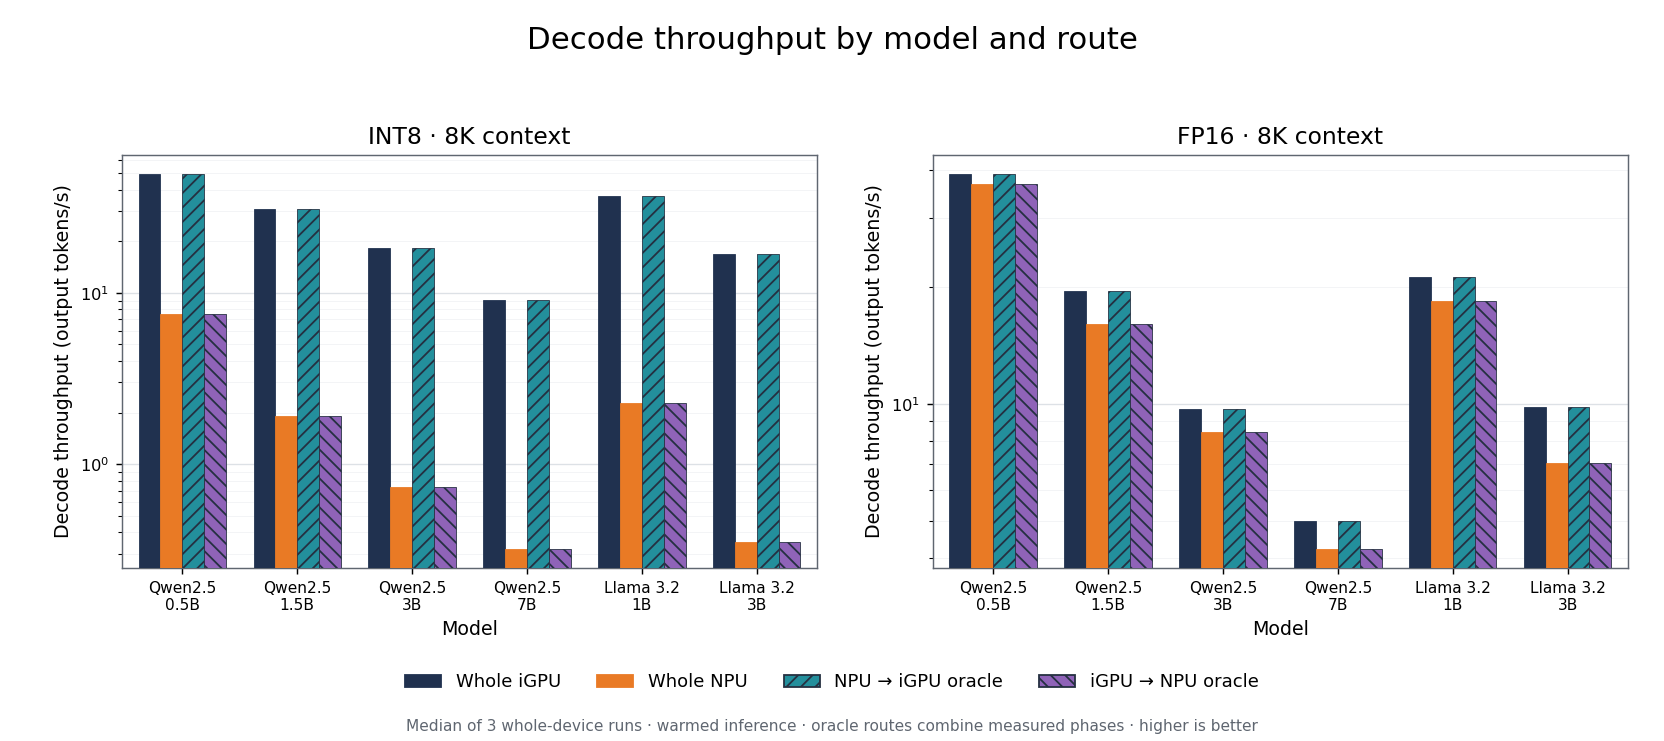
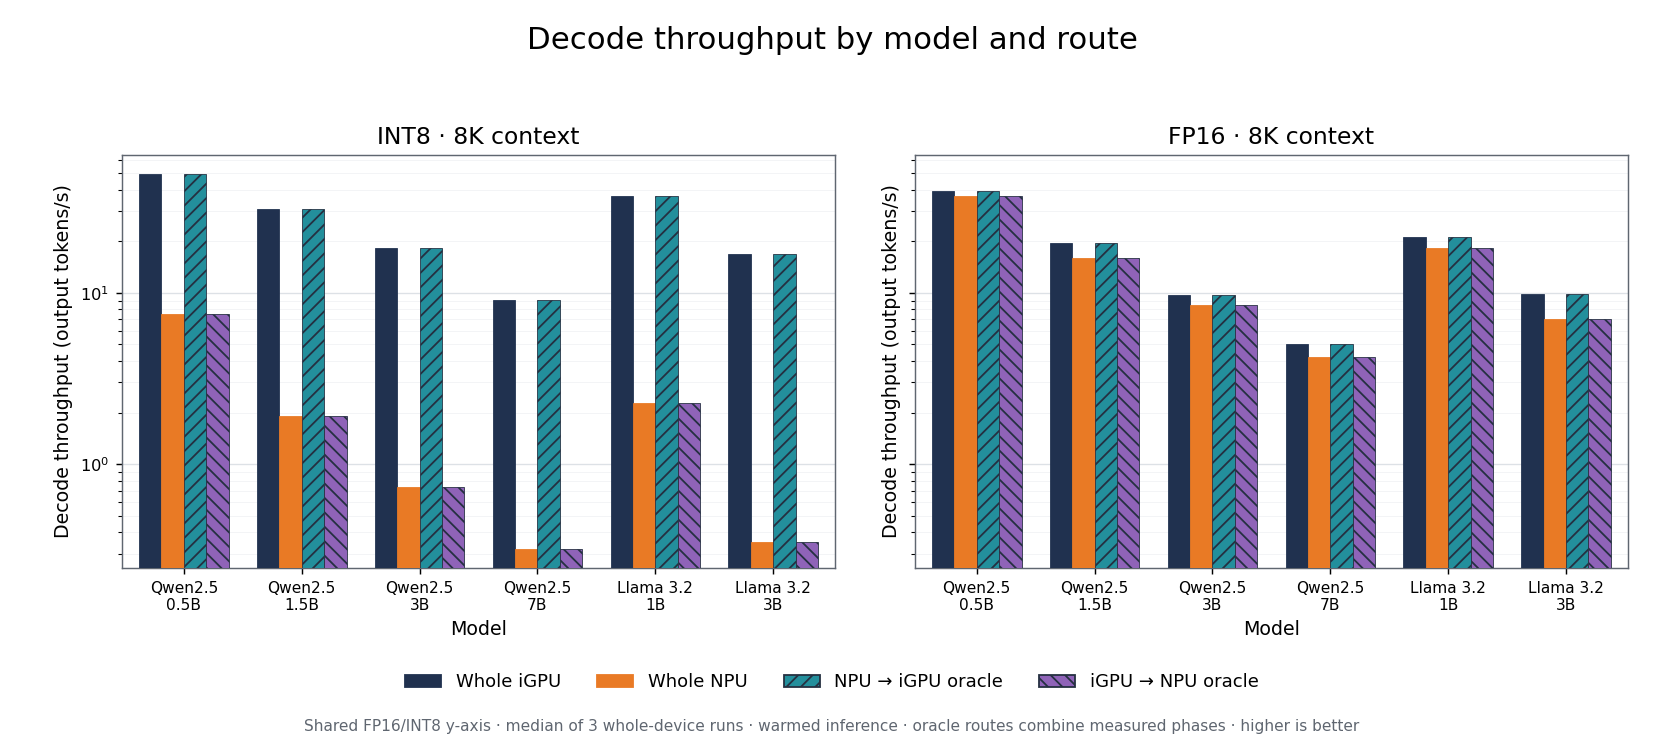
Show matched-scale INT8 and FP16 window sweeps

diff --git a/demos/npuw-pyramid-jit.html b/demos/npuw-pyramid-jit.html
@@ -717,16 +717,28 @@ For the refreshed Qwen2.5-3B INT8 8K NPU cell, compilation was 111.14&nbsp;s,
 while the plotted post-compile TTFT is 18.627&nbsp;s and post-compile end-to-end
 time is 38.941&nbsp;s.</div>
 
+<h2 id="oracle-window-sweep">1K–8K window sweep · matched FP16/INT8 scale</h2>
+<p>Every model is now shown as an INT8/FP16 pair with the <b>same y-axis limits</b>
+inside that pair, so the precision difference is directly visible. Each line covers
+the measured 1K, 2K, 4K and 8K context buckets; solid routes are whole-device
+measurements and dashed routes are the zero-boundary-overhead phase oracles.</p>
+<div class="sweep-shots">
+<figure><img src="nuc16-stage-sweep-figs/oracle_ttft_ms.png?v=20260825b" alt="Post-compile TTFT across 1K 2K 4K and 8K with matched INT8 and FP16 axes"><figcaption>Post-compile TTFT sweep; lower is better. Each model row shares one FP16/INT8 scale.</figcaption></figure>
+<figure><img src="nuc16-stage-sweep-figs/oracle_decode_tokens_per_s.png?v=20260825b" alt="Decode throughput across 1K 2K 4K and 8K with matched INT8 and FP16 axes"><figcaption>Decode throughput sweep; higher is better. Each model row shares one FP16/INT8 scale.</figcaption></figure>
+<figure><img src="nuc16-stage-sweep-figs/oracle_end_to_end_ms.png?v=20260825b" alt="End-to-end time across 1K 2K 4K and 8K with matched INT8 and FP16 axes"><figcaption>Post-compile end-to-end inference sweep; lower is better. Each model row shares one FP16/INT8 scale.</figcaption></figure>
+<figure><img src="nuc16-stage-sweep-figs/oracle_energy_net_psys_j.png?v=20260825b" alt="Inference energy across 1K 2K 4K and 8K with matched INT8 and FP16 axes"><figcaption>Idle-subtracted PSys inference-energy sweep; lower is better. Each model row shares one FP16/INT8 scale.</figcaption></figure>
+</div>
+
 <h2 id="oracle-8k-digest">8K cross-model latency, throughput and energy digest</h2>
 <p>These grouped bars compare all six models directly at the largest tested window.
 Whole-device routes are solid; overhead-free split oracles are hatched. Post-compile
 TTFT follows the prefill device, decode throughput follows the decode device, and total
 energy adds the independently measured phase components.</p>
 <div class="sweep-shots">
-<figure><img src="nuc16-stage-sweep-figs/oracle_ttft_8k_grouped.png?v=20260825" alt="Eight-thousand-token post-compile prefill time to first token by model route and precision"><figcaption>Post-compile prefill TTFT at 8K; load, compile and warmup excluded.</figcaption></figure>
-<figure><img src="nuc16-stage-sweep-figs/oracle_decode_throughput_8k_grouped.png?v=20260825" alt="Eight-thousand-token decode throughput by model route and precision"><figcaption>Decode output throughput at 8K; higher is better.</figcaption></figure>
-<figure><img src="nuc16-stage-sweep-figs/oracle_end_to_end_8k_grouped.png?v=20260825" alt="Eight-thousand-token end-to-end inference time by model route and precision"><figcaption>End-to-end inference time after phase composition; lower is better.</figcaption></figure>
-<figure><img src="nuc16-stage-sweep-figs/oracle_energy_8k_grouped.png?v=20260825" alt="Eight-thousand-token idle-subtracted whole-system inference energy by model route and precision"><figcaption>Idle-subtracted PSys inference energy at 8K; compile and warmup energy excluded.</figcaption></figure>
+<figure><img src="nuc16-stage-sweep-figs/oracle_ttft_8k_grouped.png?v=20260825b" alt="Eight-thousand-token post-compile prefill time to first token by model route and precision"><figcaption>Post-compile prefill TTFT at 8K; load, compile and warmup excluded.</figcaption></figure>
+<figure><img src="nuc16-stage-sweep-figs/oracle_decode_throughput_8k_grouped.png?v=20260825b" alt="Eight-thousand-token decode throughput by model route and precision"><figcaption>Decode output throughput at 8K; higher is better.</figcaption></figure>
+<figure><img src="nuc16-stage-sweep-figs/oracle_end_to_end_8k_grouped.png?v=20260825b" alt="Eight-thousand-token end-to-end inference time by model route and precision"><figcaption>End-to-end inference time after phase composition; lower is better.</figcaption></figure>
+<figure><img src="nuc16-stage-sweep-figs/oracle_energy_8k_grouped.png?v=20260825b" alt="Eight-thousand-token idle-subtracted whole-system inference energy by model route and precision"><figcaption>Idle-subtracted PSys inference energy at 8K; compile and warmup energy excluded.</figcaption></figure>
 </div>
 
 
@@ -767,25 +779,15 @@ treated as a token-equivalent optimal output.</div>
 </details>
 
 <details class="result-group" id="oracle-full-sweep">
-<summary><span>Full four-case 1K–8K sweep</span><small>route choice · latency · throughput · energy</small></summary>
+<summary><span>Additional four-case diagnostics</span><small>route choice · first decode · TPOT · phase energy</small></summary>
 <div class="group-body">
 <div class="sweep-shots">
-<figure><img src="nuc16-stage-sweep-figs/oracle_optimal_routes.png?v=20260825" alt="Optimal four-case route by precision model and context window"><figcaption>Fastest end-to-end and lowest-energy oracle choice for every model, precision and window.</figcaption></figure>
-<figure><img src="nuc16-stage-sweep-figs/oracle_end_to_end_ms.png?v=20260825" alt="Four-case end-to-end inference time for INT8 and FP16"><figcaption>Measured whole-device paths are solid; overhead-free composed paths are dashed.</figcaption></figure>
-</div>
-<div class="sweep-shots">
-<figure><img src="nuc16-stage-sweep-figs/oracle_ttft_ms.png?v=20260825" alt="Four-case post-compile time to first token for INT8 and FP16"><figcaption>Post-compile TTFT follows the selected prefill device; compilation and warmup are excluded.</figcaption></figure>
-<figure><img src="nuc16-stage-sweep-figs/oracle_handoff_plus_first_decode_ms.png?v=20260825" alt="Four-case first decode call latency for INT8 and FP16"><figcaption>First decode-call latency follows the selected decode device; boundary overhead is zero.</figcaption></figure>
-<figure><img src="nuc16-stage-sweep-figs/oracle_prefill_tokens_per_s.png?v=20260825" alt="Four-case prefill throughput for INT8 and FP16"><figcaption>Prefill throughput across all six models and four windows.</figcaption></figure>
-<figure><img src="nuc16-stage-sweep-figs/oracle_decode_tokens_per_s.png?v=20260825" alt="Four-case decode throughput for INT8 and FP16"><figcaption>Decode throughput across all six models and four windows.</figcaption></figure>
-<figure><img src="nuc16-stage-sweep-figs/oracle_steady_tpot_ms.png?v=20260825" alt="Four-case steady decode latency for INT8 and FP16"><figcaption>Steady per-token decode latency; lower is better.</figcaption></figure>
-<figure><img src="nuc16-stage-sweep-figs/oracle_output_tokens_per_s_e2e.png?v=20260825" alt="Four-case end-to-end output throughput for INT8 and FP16"><figcaption>End-to-end output-token throughput after composing the selected phases.</figcaption></figure>
-</div>
-
-<h3>Four-case total and distributed energy</h3>
-<div class="sweep-shots">
-<figure><img src="nuc16-stage-sweep-figs/oracle_energy_net_psys_j.png?v=20260825" alt="Four-case idle-subtracted platform energy for INT8 and FP16"><figcaption>Total idle-subtracted PSys energy across 1K&ndash;8K.</figcaption></figure>
-<figure><img src="nuc16-stage-sweep-figs/oracle_phase_energy_8k.png?v=20260825" alt="Four-case energy split between prefill and decode at 8K"><figcaption>Eight-thousand-token energy split into independently measured prefill and decode components.</figcaption></figure>
+<figure><img src="nuc16-stage-sweep-figs/oracle_optimal_routes.png?v=20260825b" alt="Optimal four-case route by precision model and context window"><figcaption>Fastest end-to-end and lowest-energy oracle choice for every model, precision and window.</figcaption></figure>
+<figure><img src="nuc16-stage-sweep-figs/oracle_handoff_plus_first_decode_ms.png?v=20260825b" alt="Four-case first decode call latency for INT8 and FP16"><figcaption>First decode-call latency; each model row uses a matched FP16/INT8 scale.</figcaption></figure>
+<figure><img src="nuc16-stage-sweep-figs/oracle_prefill_tokens_per_s.png?v=20260825b" alt="Four-case prefill throughput for INT8 and FP16"><figcaption>Prefill throughput across all six models and four windows.</figcaption></figure>
+<figure><img src="nuc16-stage-sweep-figs/oracle_steady_tpot_ms.png?v=20260825b" alt="Four-case steady decode latency for INT8 and FP16"><figcaption>Steady per-token decode latency; lower is better.</figcaption></figure>
+<figure><img src="nuc16-stage-sweep-figs/oracle_output_tokens_per_s_e2e.png?v=20260825b" alt="Four-case end-to-end output throughput for INT8 and FP16"><figcaption>End-to-end output-token throughput after composing the selected phases.</figcaption></figure>
+<figure><img src="nuc16-stage-sweep-figs/oracle_phase_energy_8k.png?v=20260825b" alt="Four-case energy split between prefill and decode at 8K"><figcaption>Eight-thousand-token energy split into independently measured prefill and decode components.</figcaption></figure>
 </div>
 </div>
 </details>
